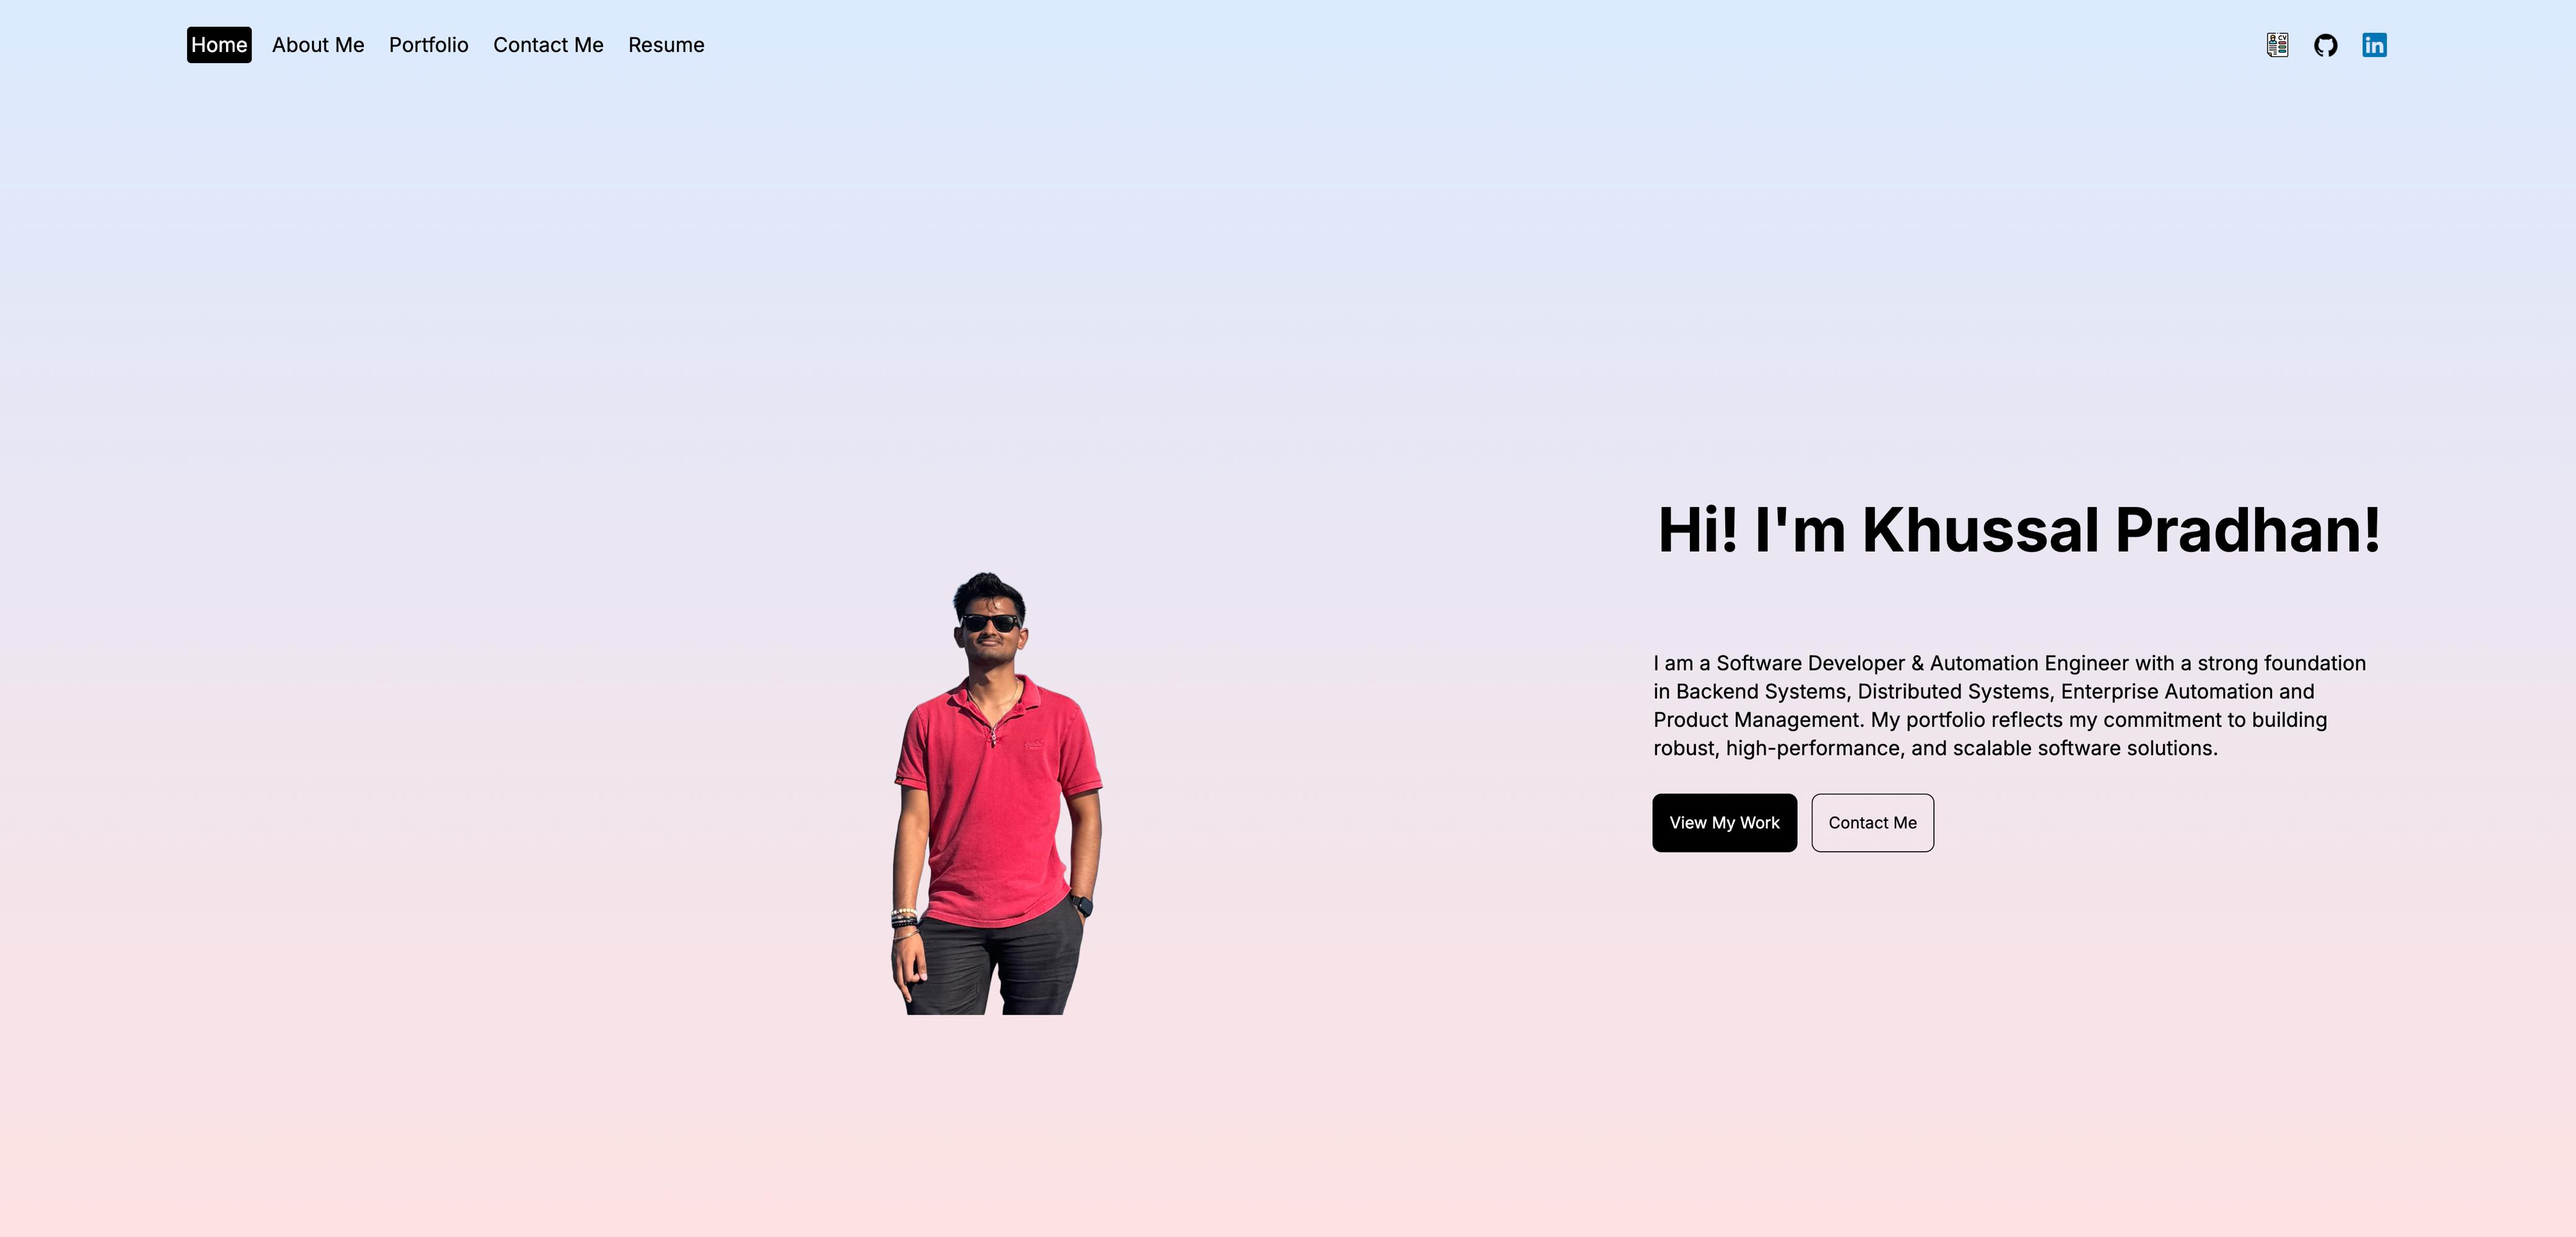
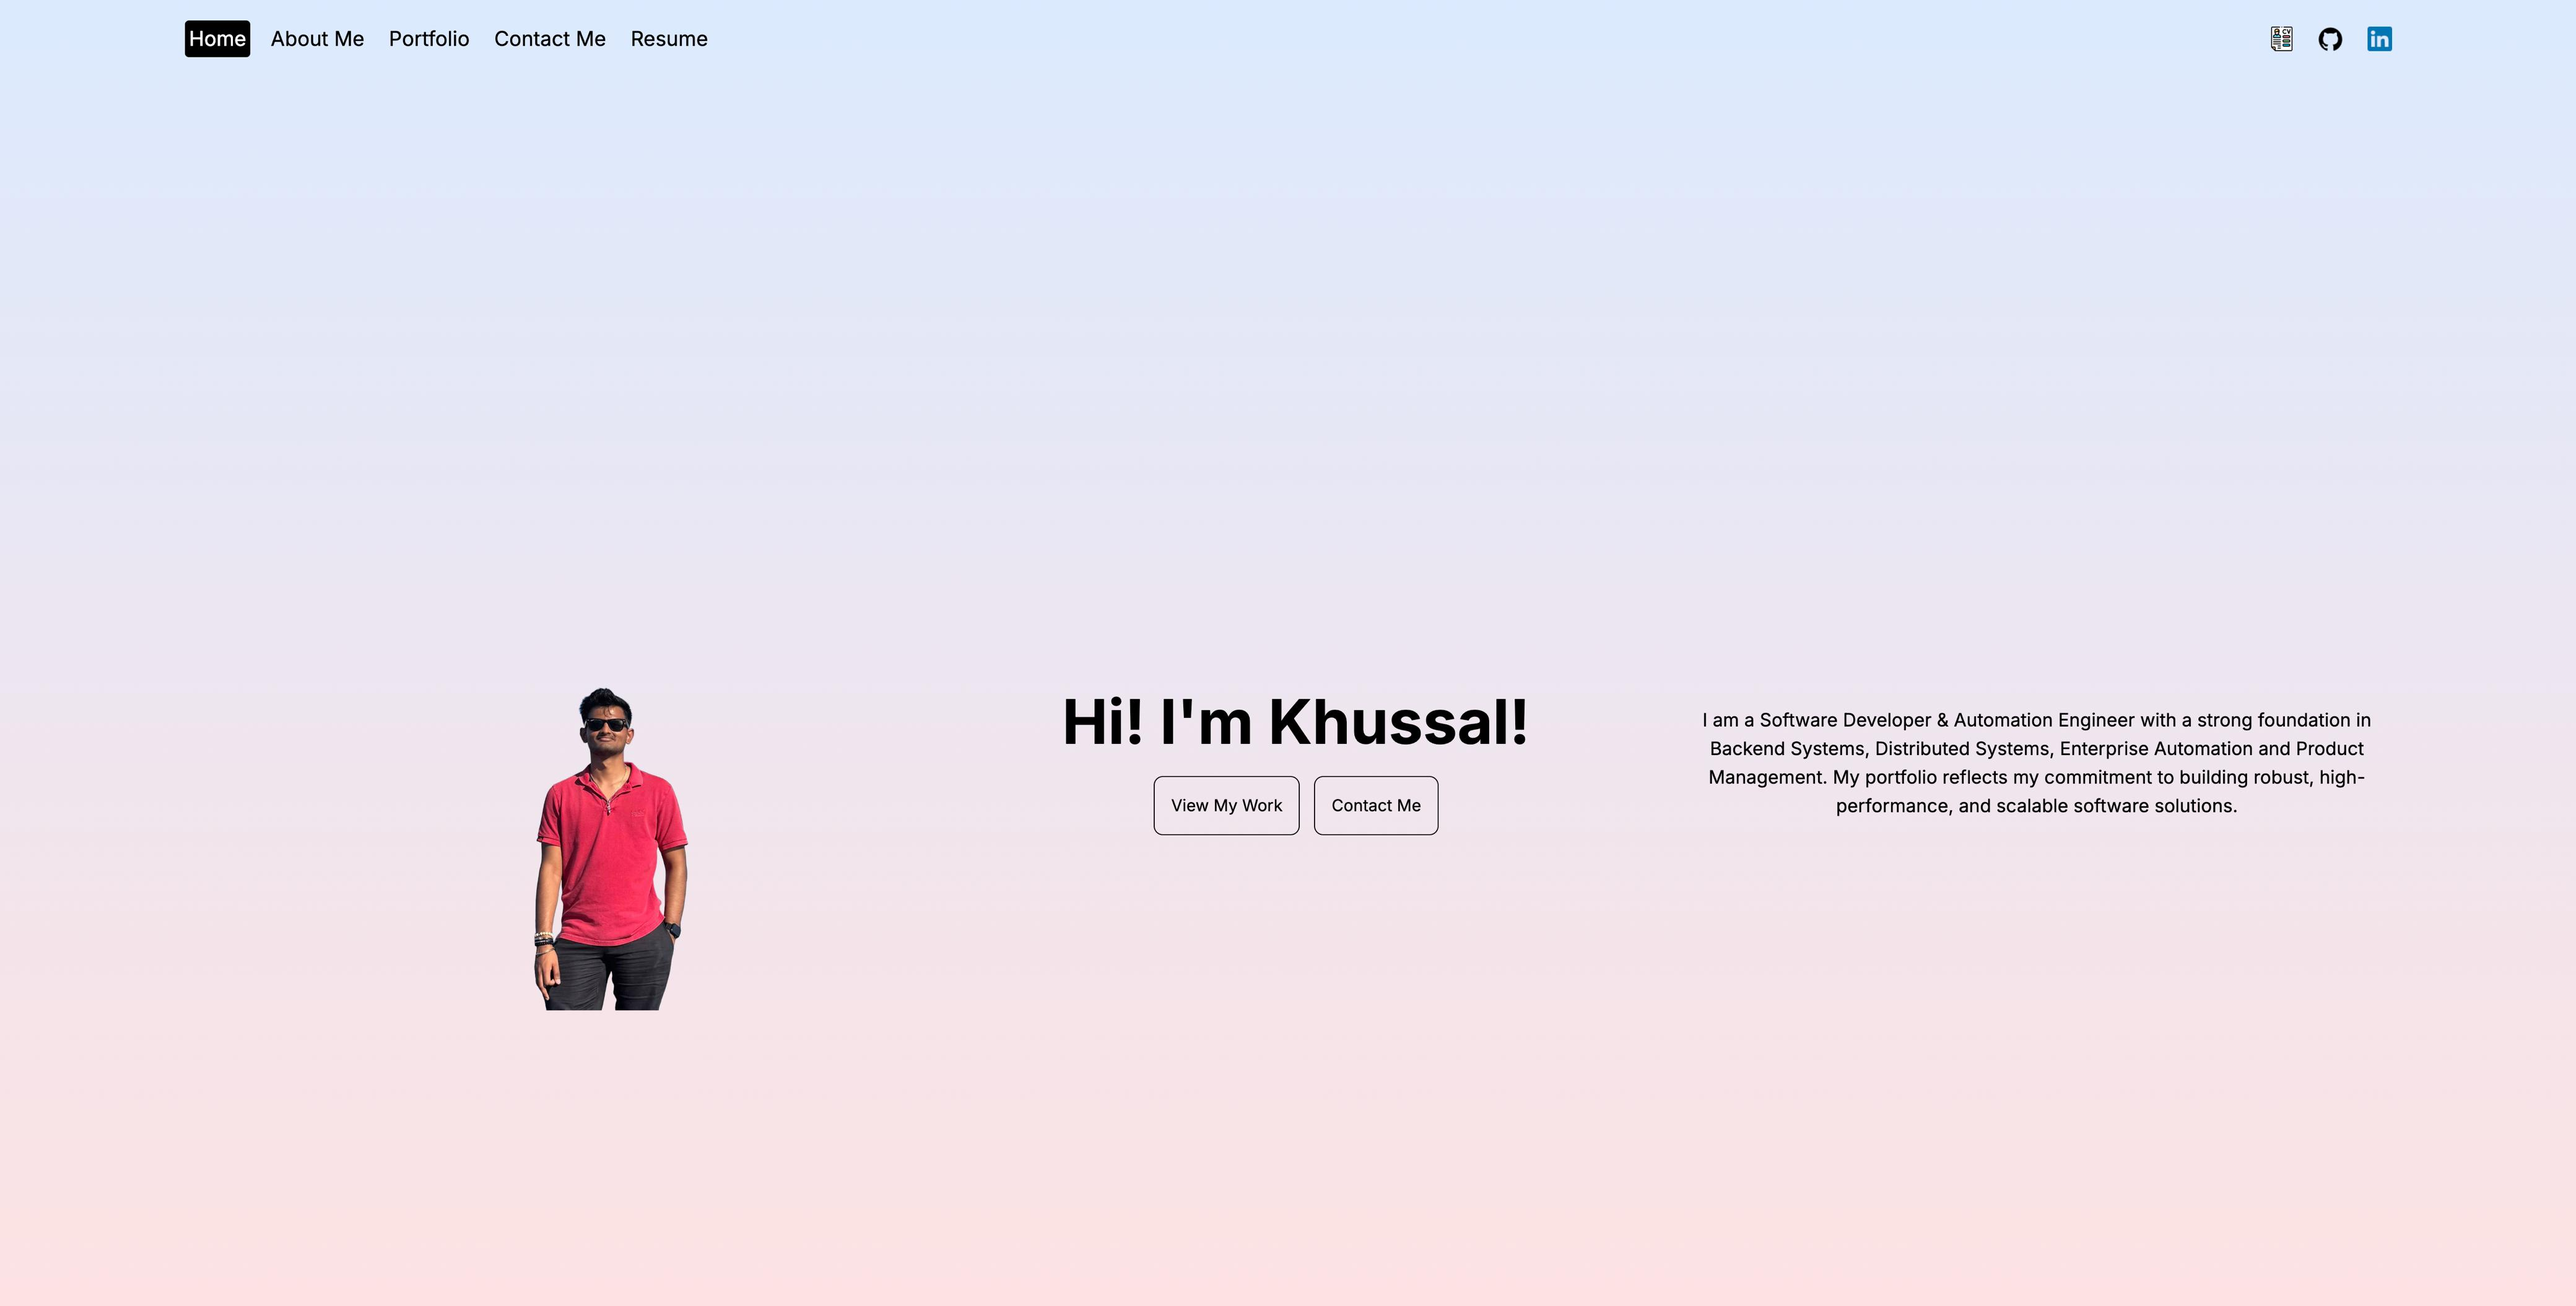
changed picture and layout

diff --git a/src/app/page.jsx b/src/app/page.jsx
@@ -7,66 +7,60 @@ import { motion } from "framer-motion";
 const Homepage = () => {
   return (
     <motion.div
-      className="h-full"
+      className="min-h-screen overflow-hidden"
       initial={{ y: "-200vh" }}
       animate={{ y: "0%" }}
       transition={{ duration: 1 }}
     >
-      <div className="h-full flex flex-col lg:flex-row px-4 sm:px-8 md:px-12 lg:px-20 xl:px-48">
-        {/* IMAGE CONTAINER */}
-        <div className="h-1/2 lg:h-full lg:w-2/3 flex items-center justify-center">
-          {/* Rounded white panel + shadow to separate the photo from the page background */}
-          <div className="relative w-full h-96 md:h-[28rem] lg:h-[42rem] lg:w-11/12 rounded-2xl overflow-hidden flex items-center justify-center">
-            {/* Use unoptimized so Next's custom loader is bypassed and the local public file is served */}
-            {/* mix-blend-multiply applied so image edges blend with panel background. Other options: mix-blend-screen, mix-blend-overlay, mix-blend-darken, mix-blend-lighten */}
-            {/* Use object-cover so the image fills more of the panel and appears larger */}
+      {/* Horizontal layout showing all panels at once on wide screens (each panel 1/3 width). On small screens panels stack vertically. */}
+      <div className="w-full flex flex-row flex-wrap items-stretch h-screen px-4 sm:px-8 md:px-12 lg:px-20 xl:px-48">
+        {/* Panel 1: Photo (1/3 width on md+, full width on small) */}
+        <section className="w-full md:w-1/3 flex items-center justify-center p-6 md:h-screen">
+          <div className="relative w-full max-w-none md:max-w-2xl lg:max-w-3xl h-full rounded-2xl overflow-hidden flex items-center justify-center">
             <Image src="/file_3_nobg.png" alt="Khussal Pradhan" fill className="object-cover" unoptimized />
           </div>
-        </div>
-        {/* TEXT CONTAINER */}
-  <div className="h-1/2 lg:h-full lg:w-1/3 flex flex-col gap-8 items-center justify-center">
-          {/* TITLE */}
-          <h1 className="text-4xl md:text-6xl font-bold">
-            Hi! I'm Khussal Pradhan!
-          </h1>
-          {/* DESC */}
-          <p className="md:text-xl">
-            <br /><br />
-            I am a Software Developer & Automation Engineer with a strong foundation in Backend Systems, Distributed Systems, Enterprise Automation and Product Management. My portfolio reflects my commitment to building robust, high-performance, and scalable software solutions.
-           </p>
-          {/* BUTTONS */}
-          <div className="w-full flex gap-4 flex-wrap justify-center sm:justify-start">
-            {(() => {
-              const toHref = (url) => {
-                const isServer = typeof window === "undefined";
-                if (isServer) {
-                  if (process.env.NODE_ENV === "production") {
-                    return url === "/" ? "/" : `${url}.html`;
+        </section>
+
+        {/* Panel 2: Heading + Buttons (1/3 width on md+, full width on small) */}
+        <section className="w-full md:w-1/3 flex items-center justify-center p-6 md:h-screen">
+          <div className="flex flex-col items-center justify-center gap-6 h-full">
+            <h1 className="text-3xl md:text-5xl lg:text-6xl font-bold text-center">Hi! I'm Khussal!</h1>
+            <div className="flex gap-4 flex-wrap justify-center">
+              {(() => {
+                const toHref = (url) => {
+                  const isServer = typeof window === "undefined";
+                  if (isServer) {
+                    if (process.env.NODE_ENV === "production") {
+                      return url === "/" ? "/" : `${url}.html`;
+                    }
+                    return url;
                   }
-                  return url;
-                }
-                const host = window.location.hostname || "";
-                const isLocal = host.includes("localhost") || host.startsWith("127.") || host.startsWith("192.168.");
-                if (isLocal) return url;
-                return url === "/" ? "/" : `${url}.html`;
-              };
-              return (
-                <>
-                  <a href={toHref("/portfolio")}>
-                    <button className="p-4 rounded-lg ring-1 ring-black bg-transparent text-black w-full sm:w-auto">
-                      View My Work
-                    </button>
-                  </a>
-                  <a href={toHref("/contact")}>
-                    <button className="p-4 rounded-lg ring-1 ring-black bg-transparent text-black w-full sm:w-auto">
-                      Contact Me
-                    </button>
-                  </a>
-                </>
-              );
-            })()}
+                  const host = window.location.hostname || "";
+                  const isLocal = host.includes("localhost") || host.startsWith("127.") || host.startsWith("192.168.");
+                  if (isLocal) return url;
+                  return url === "/" ? "/" : `${url}.html`;
+                };
+                return (
+                  <>
+                    <a href={toHref("/portfolio")}>
+                      <button className="p-4 rounded-lg ring-1 ring-black bg-transparent text-black w-full sm:w-auto">View My Work</button>
+                    </a>
+                    <a href={toHref("/contact")}>
+                      <button className="p-4 rounded-lg ring-1 ring-black bg-transparent text-black w-full sm:w-auto">Contact Me</button>
+                    </a>
+                  </>
+                );
+              })()}
+            </div>
           </div>
-        </div>
+        </section>
+
+        {/* Panel 3: Description (1/3 width on md+, full width on small) */}
+        <section className="w-full md:w-1/3 flex items-center justify-center p-6 md:h-screen">
+          <p className="max-w-3xl text-center md:text-lg">
+            I am a Software Developer & Automation Engineer with a strong foundation in Backend Systems, Distributed Systems, Enterprise Automation and Product Management. My portfolio reflects my commitment to building robust, high-performance, and scalable software solutions.
+          </p>
+        </section>
       </div>
     </motion.div>
   );
